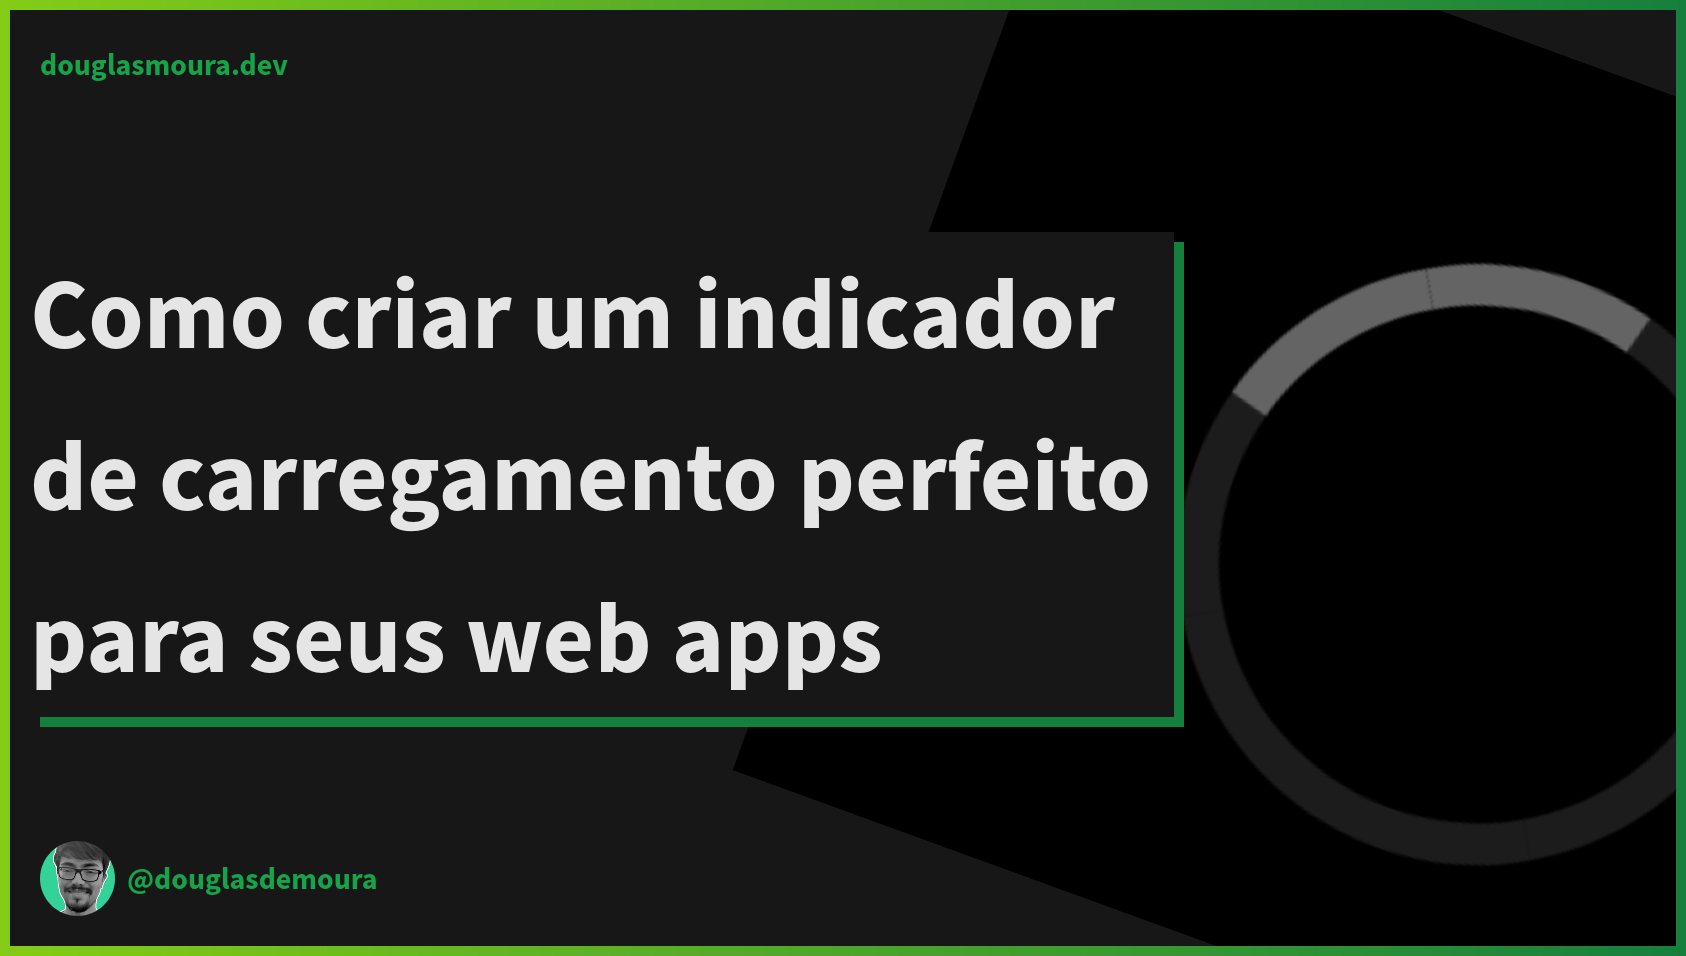
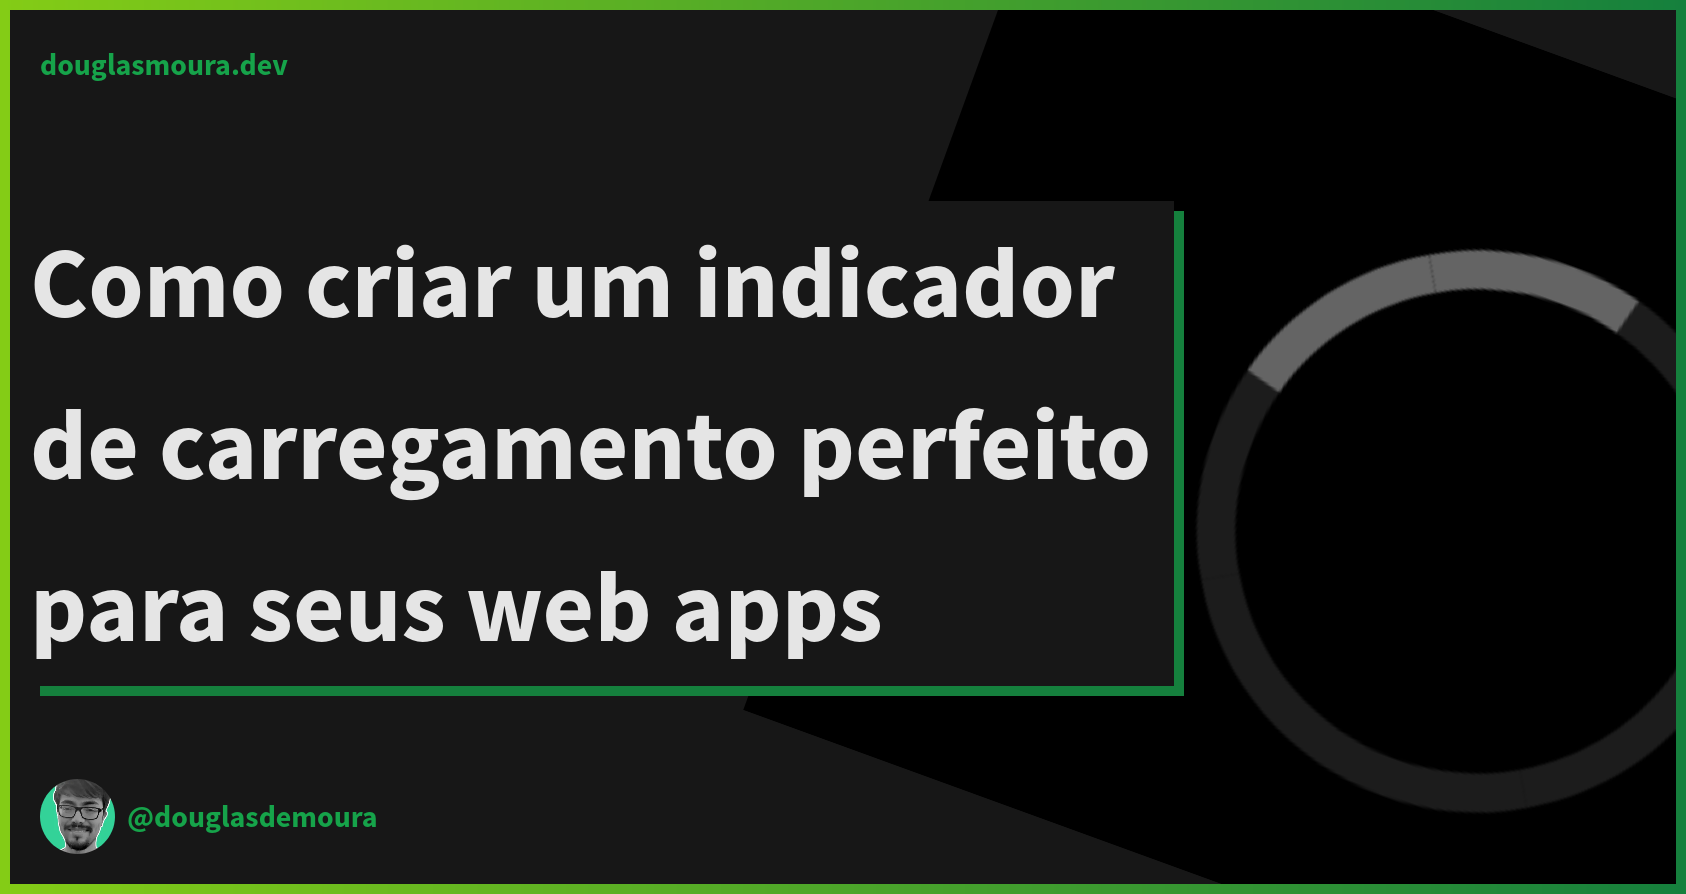
chore: update preview image

diff --git a/pages/[slug].tsx b/pages/[slug].tsx
@@ -65,14 +65,23 @@ export default function Slug({ siteInfo: { title, description }, post }: InferGe
       description={description}
     >
       <Head>
+        <meta property="og:type" content="article" />
+        <meta property="og:url" content={`https://douglasmoura.dev/${slug}`} />
+        <meta property="og:title" content={title} />
+        <meta property="og:description" content={excerpt} />
+        <meta property="og:site_name" content="Douglas Moura" />
+        <meta name="twitter:site" content="@douglasdemoura" />
+        <meta name="twitter:creator" content="@douglasdemoura" />
+        <meta name="twitter:title" content={title} />
+        <meta name="twitter:description" content={excerpt} />
         <meta name="twitter:card" content="summary_large_image" />
+        <meta name="twitter:widgets:new-embed-design" content="on" />
+        <meta name="twitter:image:src" content={cardURL} />
         <meta name="image" content={cardURL} />
         <meta itemProp="image" content={cardURL} />
-        <meta name="twitter:image" content={cardURL} />
-        <meta property="og:title" content={title} />
         <meta property="og:image" content={cardURL} />
         <meta property="og:image:width" content="1686px" />
-        <meta property="og:image:height" content="956px" />
+        <meta property="og:image:height" content="894px" />
         <meta name="description" content={excerpt} />
         <link rel="canonical" href={`https://douglasmoura.dev/${slug}`} />
       </Head>

diff --git a/sass/components/_card.scss b/sass/components/_card.scss
@@ -1,6 +1,6 @@
 .card-container {
-  --card-width: 1686px;
-  --card-height: 956px;
+  --card-width: 1686px; // 1128
+  --card-height: 894px; // 600
 
   width: var(--card-width);
   height: var(--card-height);
